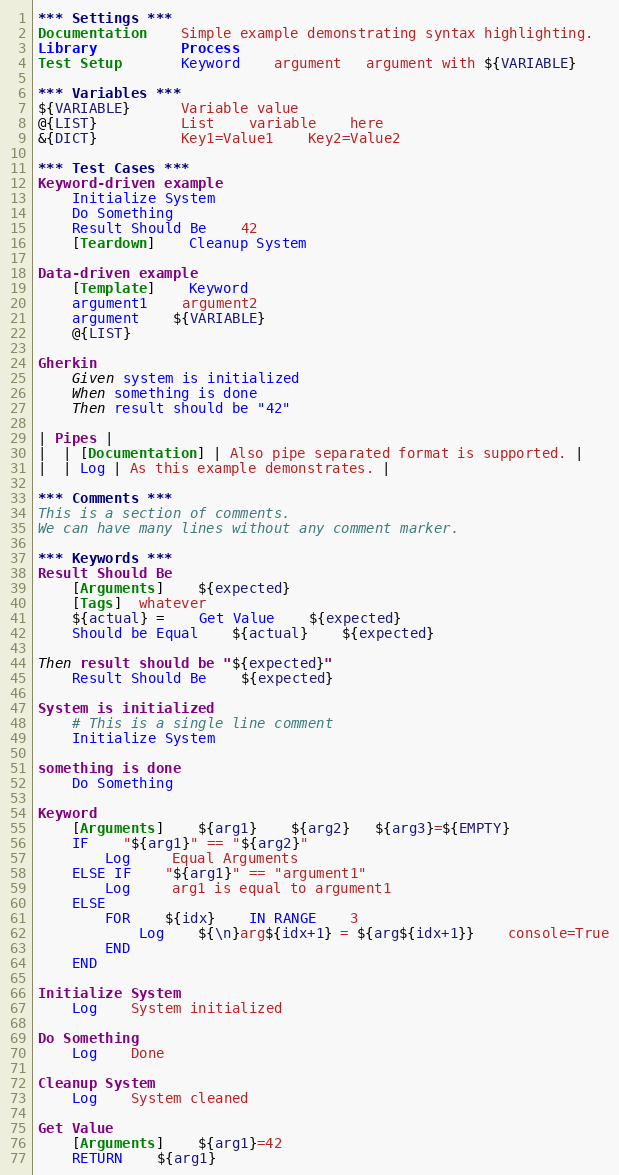
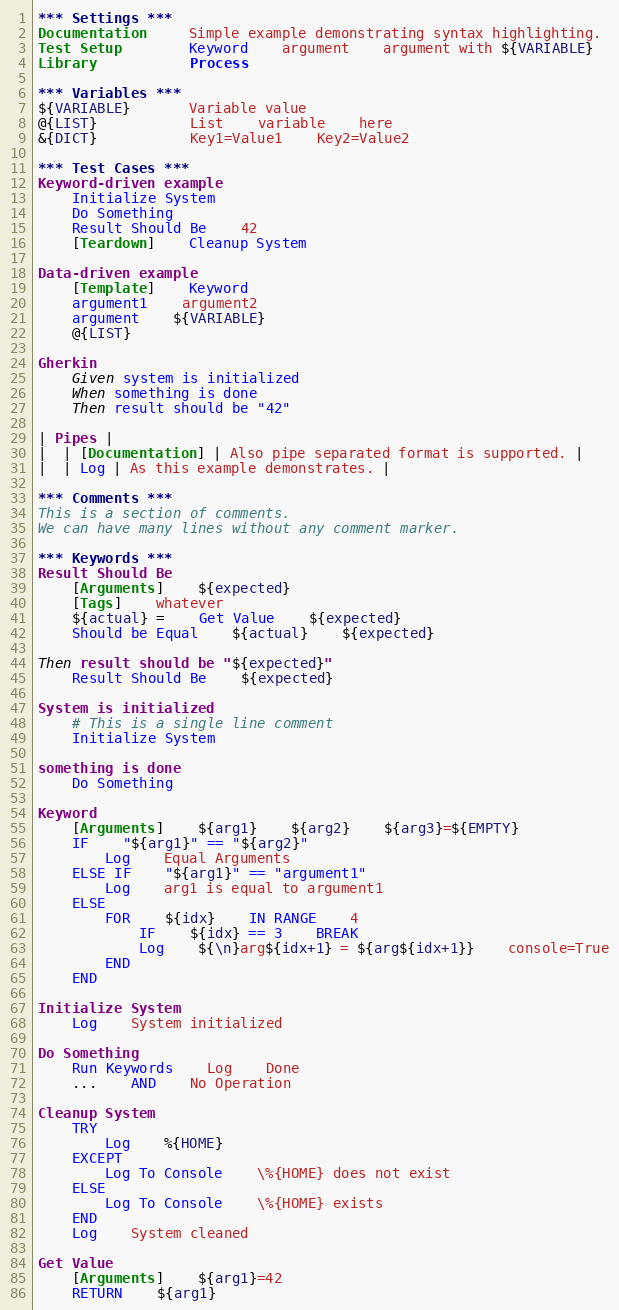
Improve FOR detection. One utest failing

diff --git a/robotframeworklexer.py b/robotframeworklexer.py
@@ -36,6 +36,10 @@ SYNTAX = Token.Punctuation
 GHERKIN = Token.Generic.Emph
 ERROR = Token.Error
 
+CONTROLS = ('AND', 'BREAK', 'CONTINUE', 'ELSE', 'ELSE IF', 'END', 'EXCEPT',
+            'FINALLY', 'GROUP', 'IF', 'IN', 'IN ENUMERATE', 'IN RANGE',
+            'IN ZIP', 'RETURN', 'TRY', 'VAR', 'WHILE')
+
 
 def normalize(string, remove='', strip=True):
     string = string.lower()
@@ -45,10 +49,7 @@ def normalize(string, remove='', strip=True):
     return string if not strip else string.strip()
 
 def is_control(value):
-    return value in ('AND', 'ELSE', 'ELSE IF', 'END', 'EXCEPT', 'FINALLY', 'FOR', 'GROUP',
-                     'IF', 'IN', 'IN ENUMERATE', 'IN RANGE', 'IN ZIP',
-                     'RETURN', 'TRY', 'VAR', 'WHILE')
-
+    return value in CONTROLS
 
 class RobotFrameworkLexer(Lexer):
     """
@@ -58,7 +59,7 @@ class RobotFrameworkLexer(Lexer):
     """
     name = 'RobotFramework'
     url = 'http://robotframework.org'
-    aliases = ['RobotFramework', 'robotframework']
+    aliases = ['robotframework']
     filenames = ['*.robot', '*.resource']
     mimetypes = ['text/x-robotframework']
 
@@ -86,10 +87,8 @@ class VariableTokenizer:
         if var.start < 0 or token in (COMMENT, ERROR):
             yield string, token
             return
-        print(f"DEBUG: VariableTokenizer tokenize BEFORE {var=} {string=}")
         for value, token in self._tokenize(var, string, token):
             if value:
-                print(f"DEBUG: VariableTokenizer tokenize YIELD {value=} {token=}")
                 yield value, token
 
     def _tokenize(self, var, string, orig_token):
@@ -150,6 +149,8 @@ class RowTokenizer:
         elif heading:
             token = HEADING if self._in_valid_table() else ERROR
             yield value, token
+        elif is_control(value):
+            yield value, CONTROL
         else:
             yield from self._table.tokenize(value, index)
 
@@ -278,7 +279,8 @@ class KeywordCall(Tokenizer):
 
     def __init__(self, support_assign=True):
         Tokenizer.__init__(self)
-        self._keyword_found = self._control_found = not support_assign
+        self._keyword_found = not support_assign
+        self._control_found = False
         self._assigns = 0
 
     def _tokenize(self, value, index):
@@ -286,12 +288,15 @@ class KeywordCall(Tokenizer):
             self._assigns += 1
             return SYNTAX  # VariableTokenizer tokenizes this later.
         if self._keyword_found or self._control_found:
-            self._tokens = (KEYWORD, ARGUMENT) if not self._control_found else (CONTROL, ARGUMENT)
+            if not is_control(value):
+                self._tokens = (KEYWORD, ARGUMENT)
+            else:
+                self._tokens = (CONTROL, ARGUMENT)
             return Tokenizer._tokenize(self, value, index - self._assigns)
         self._control_found = is_control(value)
         if self._control_found:
             self._tokens = (CONTROL, ARGUMENT)
-        self._keyword_found = True if not self._control_found else False
+        self._keyword_found = not self._control_found
         return GherkinTokenizer().tokenize(value, self._tokens[0])
 
 
@@ -318,18 +323,25 @@ class ForLoop(Tokenizer):
 
     def _tokenize(self, value, index):
         token = self._in_arguments and ARGUMENT or SYNTAX
+        print(f"DEBUG: ForLoop _tokenize ENTER {value=} {index=} {token=}")
         if value in ('FOR', 'IN', 'IN ENUMERATE', 'IN RANGE', 'IN ZIP'):  # value must be in all caps
             self._in_arguments = value != 'FOR'
             token = CONTROL
-        elif value in ('for', 'in', 'in enumerate', 'in range', 'in zip'):
+        elif index == 0 and value in (': FOR', 'for'):
+            self._in_arguments = True
+            token = ERROR
+        elif index > 1 and value in ('in', 'in enumerate', 'in range', 'in zip'):
             self._in_arguments = True
             token = ERROR
         elif index >= 1 and not self._in_arguments:
-             var = list(VariableTokenizer().tokenize(value, ARGUMENT))
-             if len(var) > 1  and var[1][1] == VARIABLE:
-                 token = SYNTAX
-             else:
-                 token = ERROR
+            var = list(VariableTokenizer().tokenize(value, ARGUMENT))
+            print(f"DEBUG: ForLoop _tokenize VAR LOOP {value=} {index=}  {var=}")
+            if len(var) > 1  and var[1][1] == VARIABLE:
+                token = SYNTAX
+            else:
+                self._in_arguments = True
+                token = ARGUMENT
+        print(f"DEBUG: ForLoop _tokenize RETURN {value=} {index=} {token=} {self._in_arguments=}")
         return token
 
 

diff --git a/test/test_robotframeworklexer.py b/test/test_robotframeworklexer.py
@@ -175,7 +175,7 @@ class TestForLoopTokenizer(unittest.TestCase):
     def test_old_for(self):
         SEP = (SYNTAX, '    ')
         self._verify(': FOR    ${x}    IN    foo    bar',
-                     (SYNTAX, ': FOR'), SEP,
+                     (ERROR, ': FOR'), SEP,
                      (SYNTAX, '${'), (VARIABLE, 'x'), (SYNTAX, '}'), SEP,
                      (CONTROL, 'IN'), SEP,
                      (ARGUMENT, 'foo'), SEP, (ARGUMENT, 'bar'))
